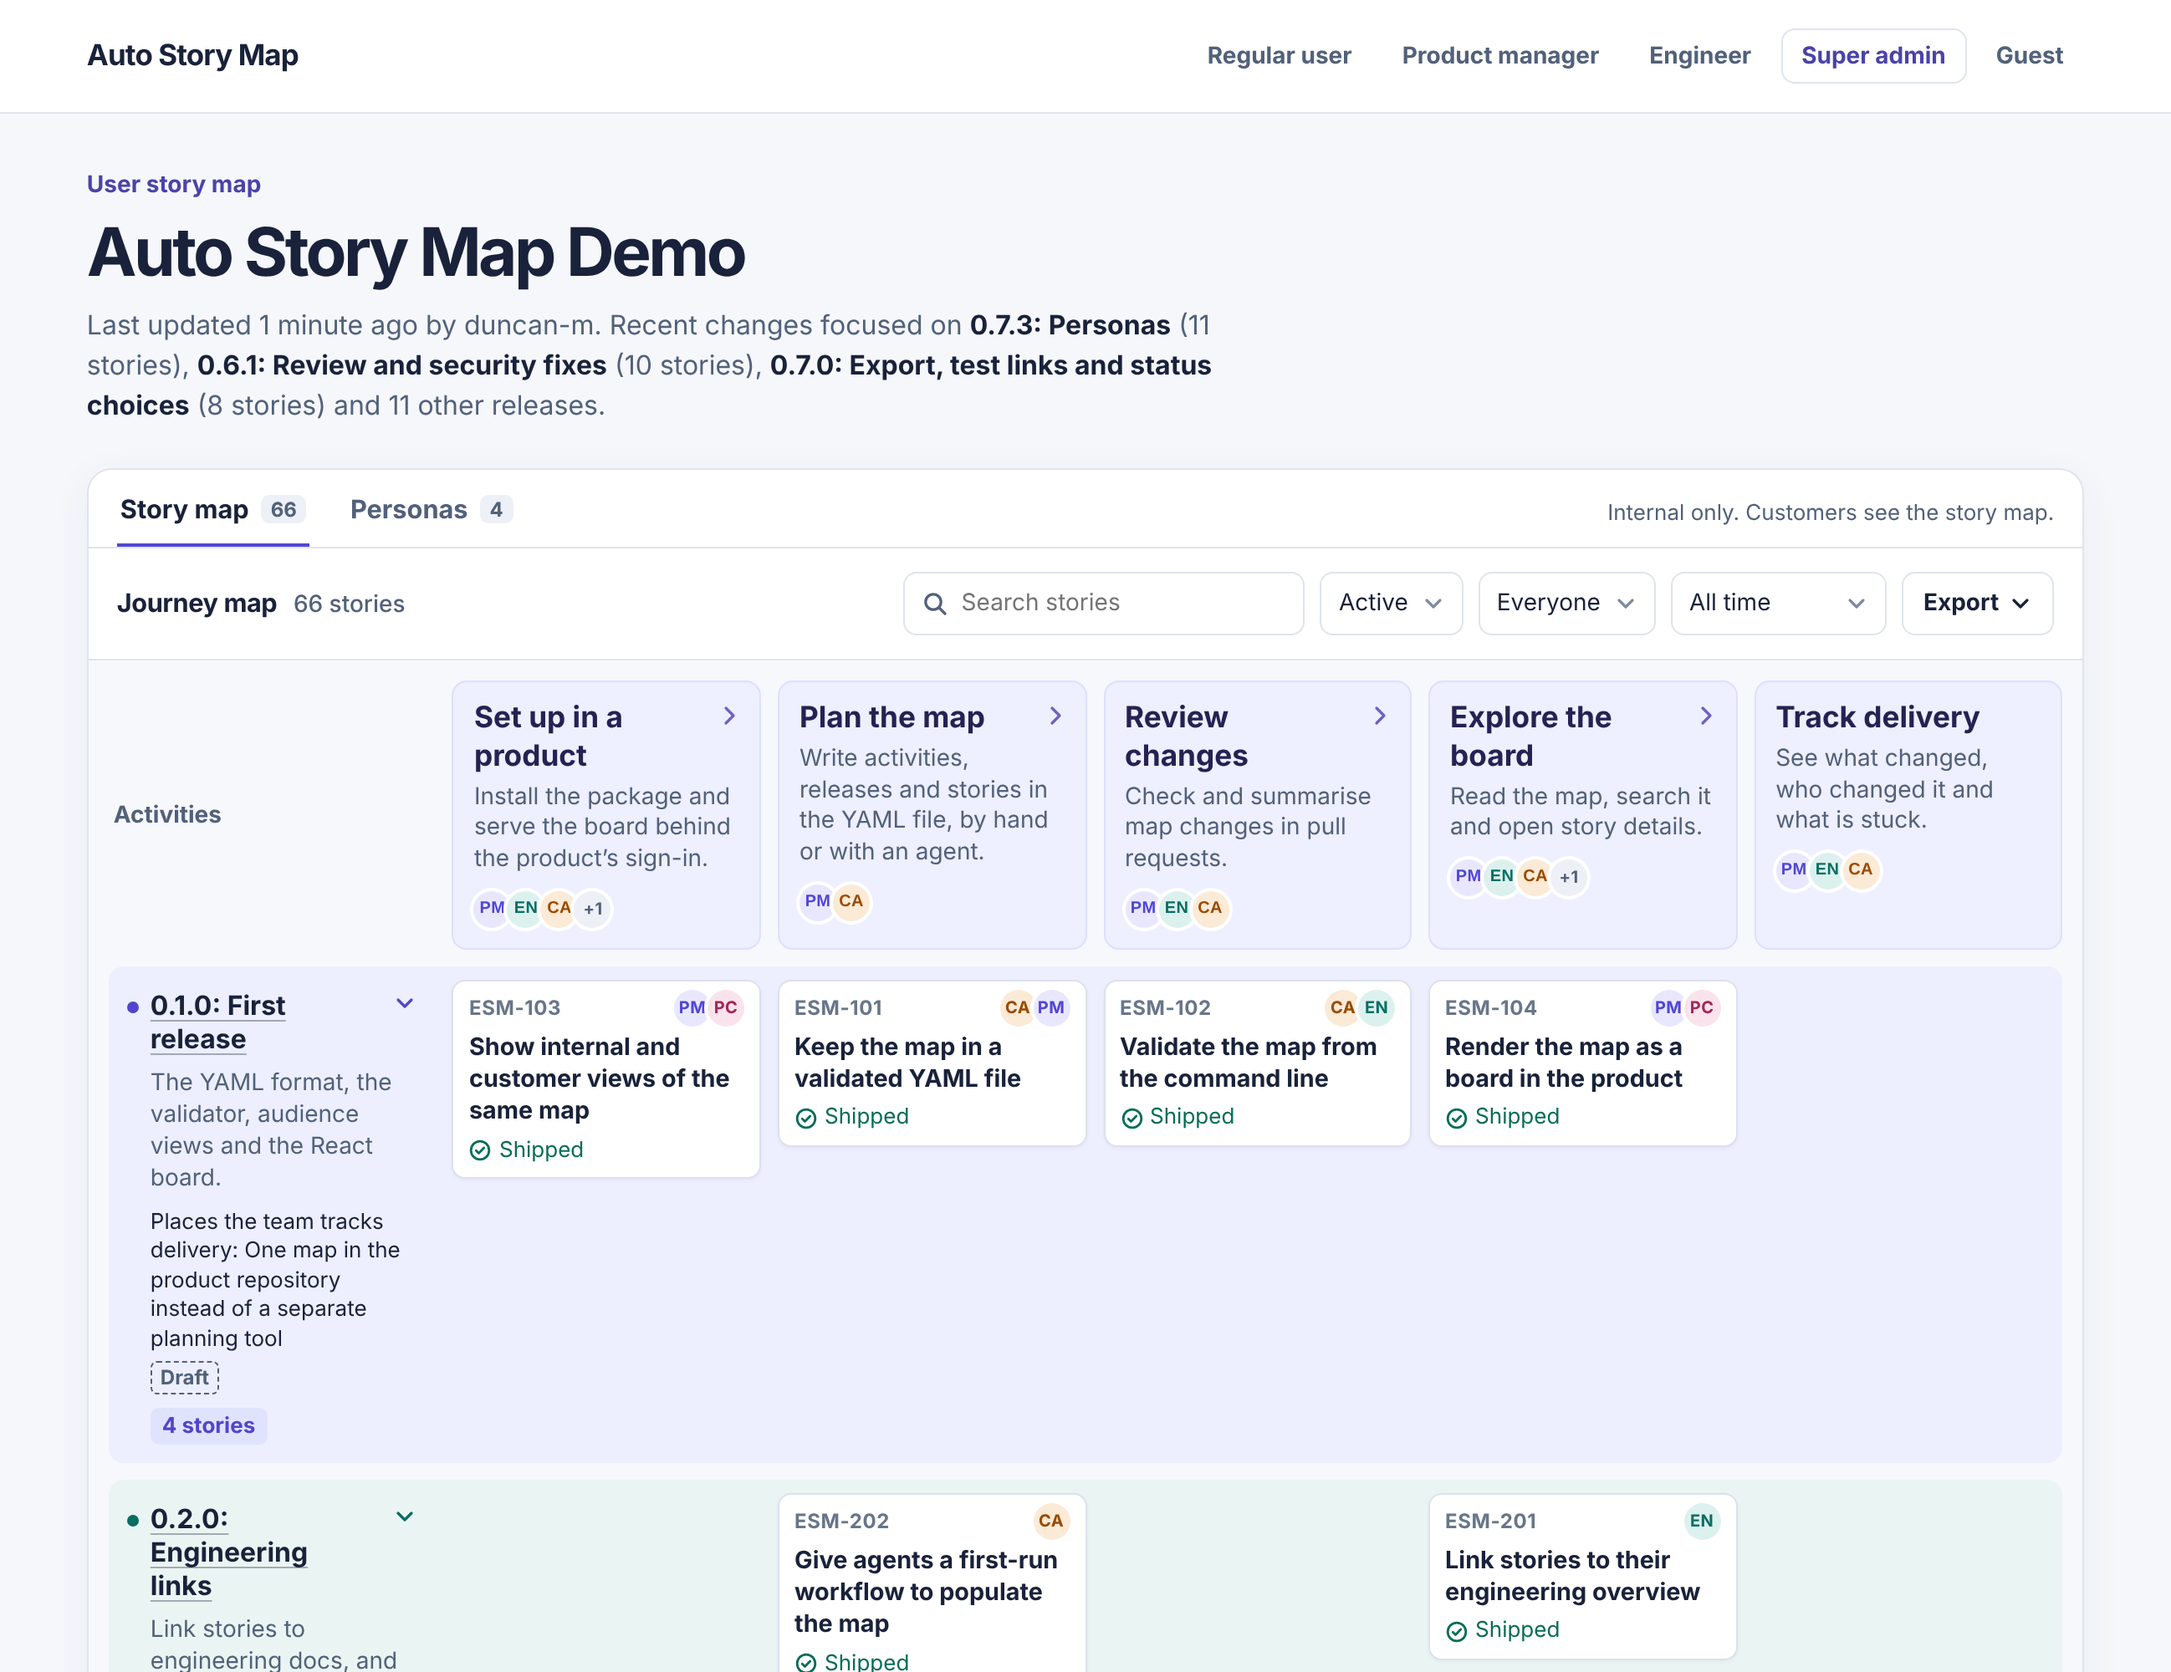
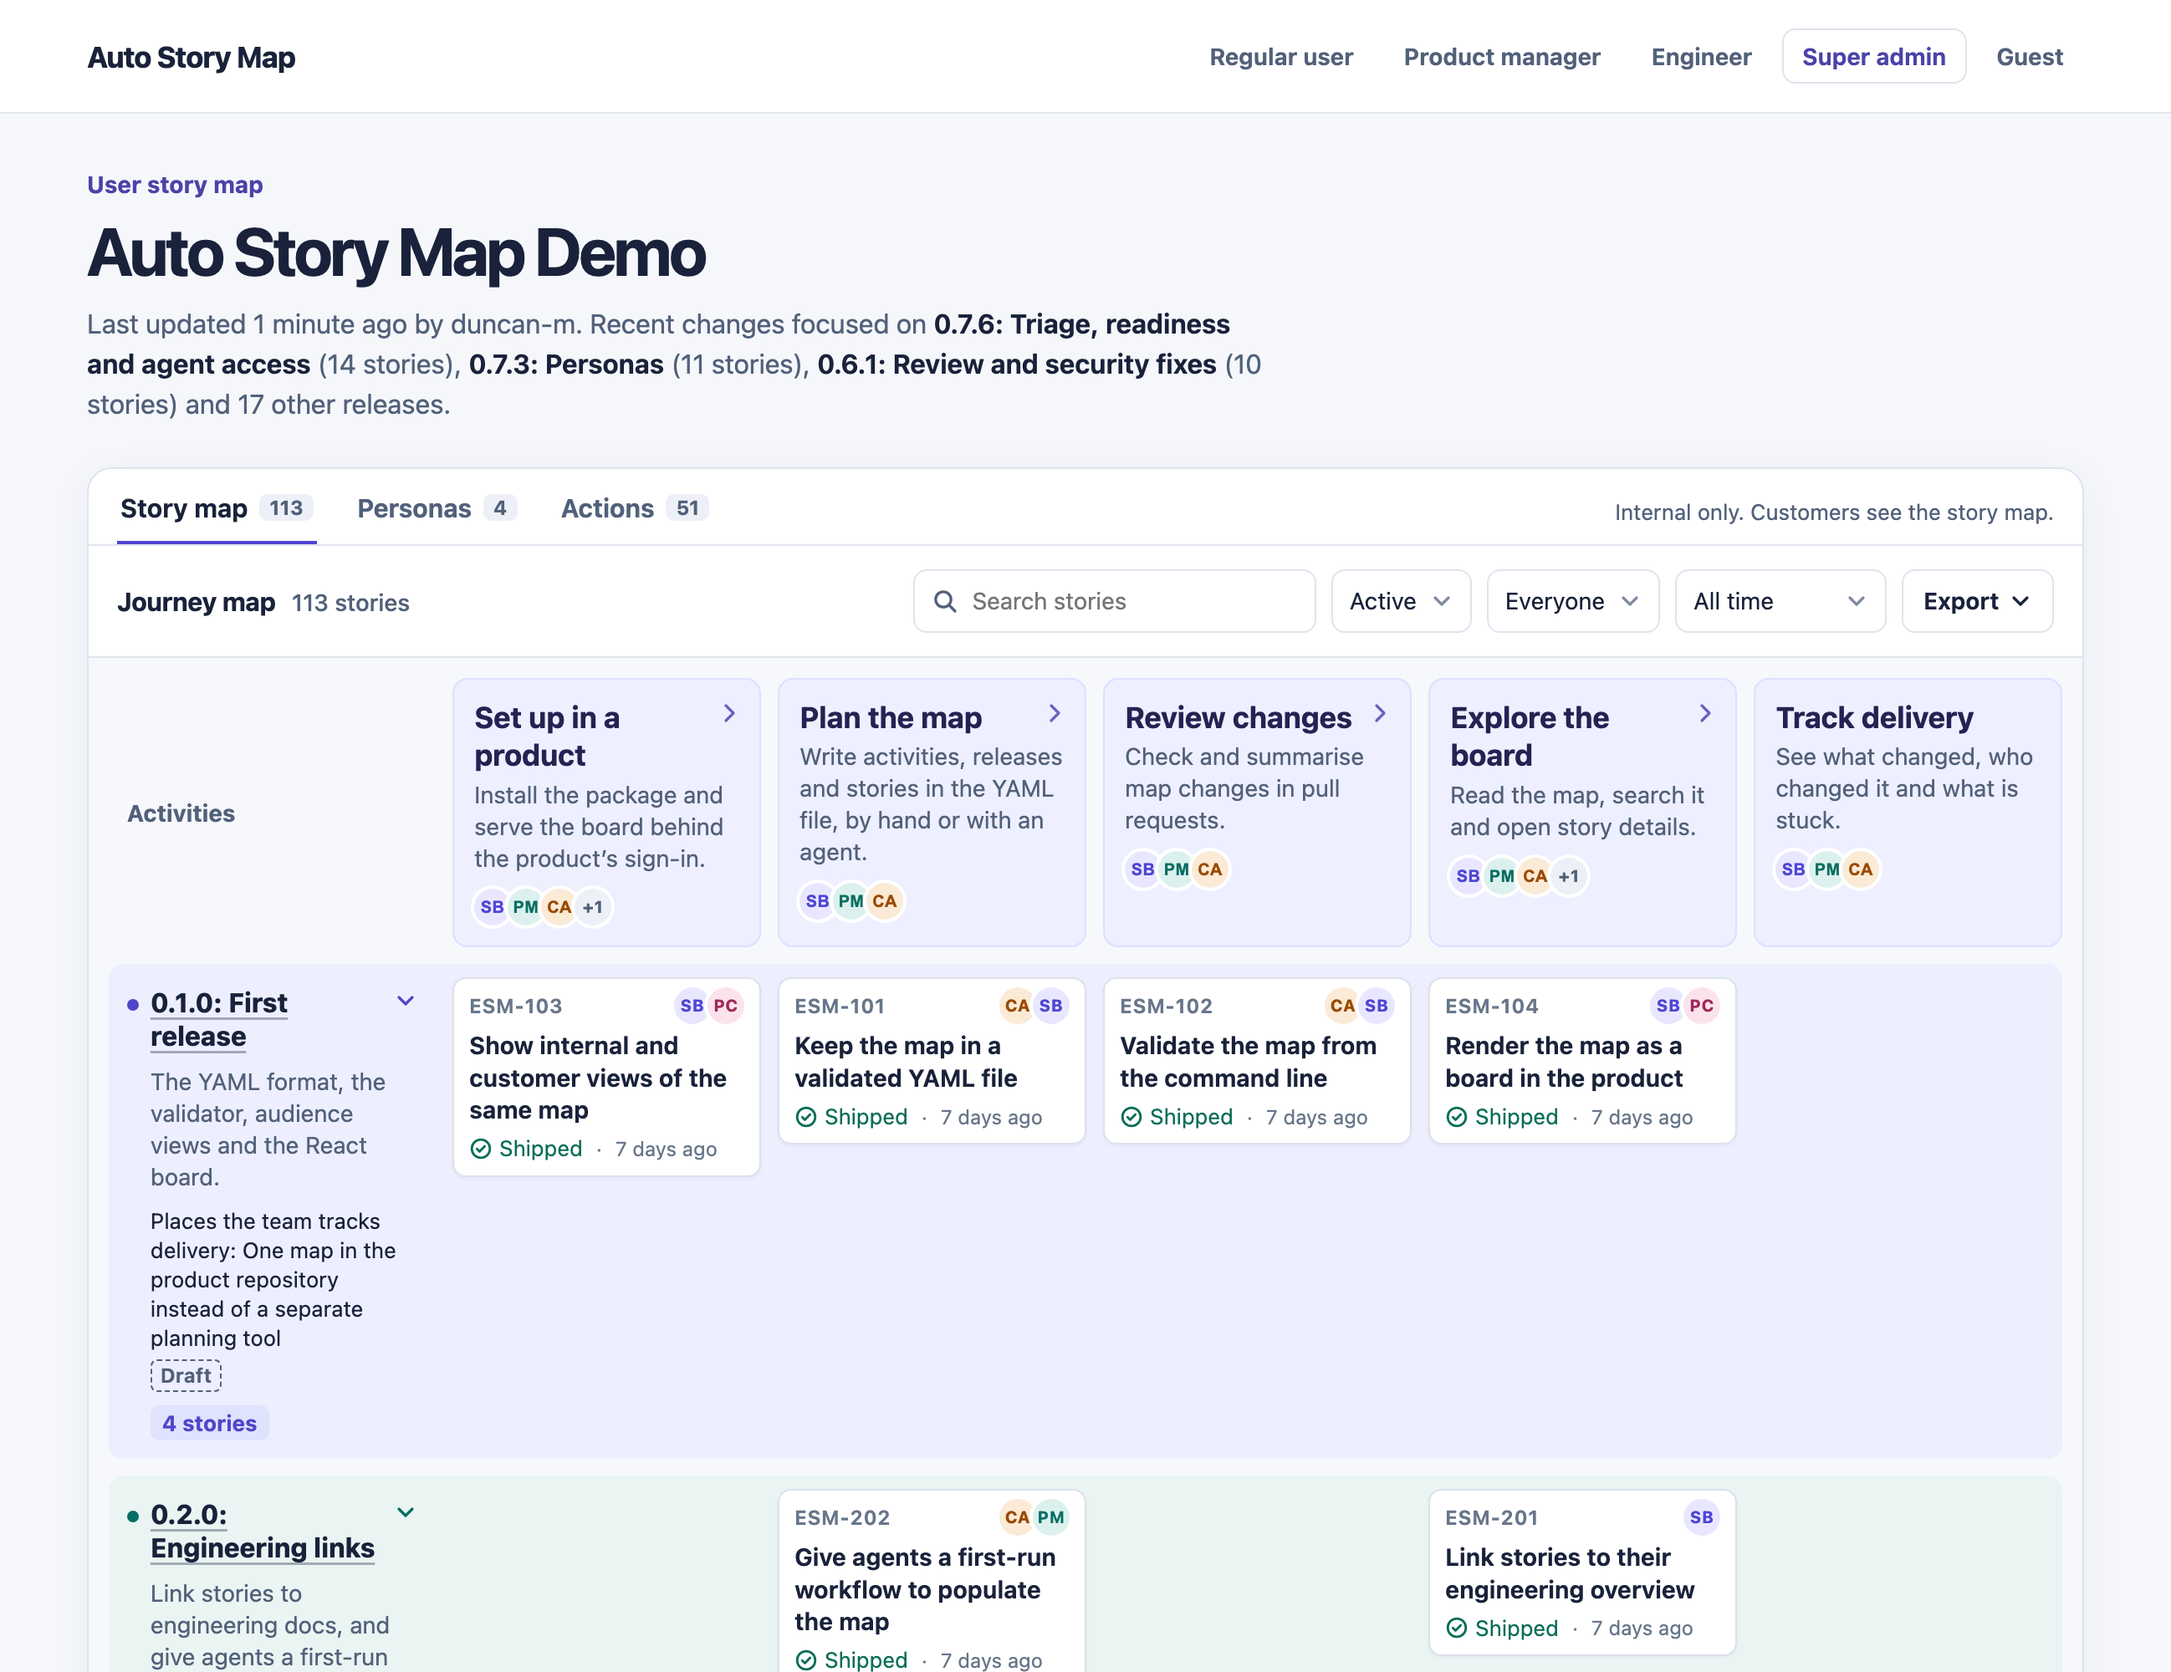
Retake the README screenshot with the Actions tab
The board now has an Actions tab next to Story map and Personas, so retake
the main screenshot from the demo and mention the tab in its alt text.

diff --git a/README.md b/README.md
@@ -13,7 +13,7 @@ Export the map as JSON and an agent can review your stories and tests and sugges
 
 ## Screenshot
 
-![This library's own story map in the demo, as a super admin sees it. Under the title, a line says when the map was last updated, by whom, and which releases recent changes focused on. Story map and Personas tabs sit above the search, status, persona and time filters and an Export menu. Activities from setting up to tracking delivery run across the top, each with avatars for the personas it serves, with a lane for each release and its expected impact, and story cards showing each story's ID, title, status and persona avatars.](https://raw.githubusercontent.com/duncan-m/auto-story-map/main/story-map-screenshot.png)
+![This library's own story map in the demo, as a super admin sees it. Under the title, a line says when the map was last updated, by whom, and which releases recent changes focused on. Story map, Personas and Actions tabs, each with a count, sit above the search, status, persona and time filters and an Export menu. Activities from setting up to tracking delivery run across the top, each with avatars for the personas it serves, with a lane for each release and its expected impact, and story cards showing each story's ID, title, status and persona avatars.](https://raw.githubusercontent.com/duncan-m/auto-story-map/main/story-map-screenshot.png)
 
 ![Close-ups of the board: a story card for ESM-115 with persona avatars, an 8-point estimate, its status and dependency count; the story panel's dependencies list and its activity, release, tokens used and estimated cost; the Personas tab showing the Solo Builder's jobs to be done and the stories that serve them; and the Share menu with Copy link, Copy brief, and Open in Claude, Claude Code or ChatGPT.](https://raw.githubusercontent.com/duncan-m/auto-story-map/main/story-map-features.webp)
 
